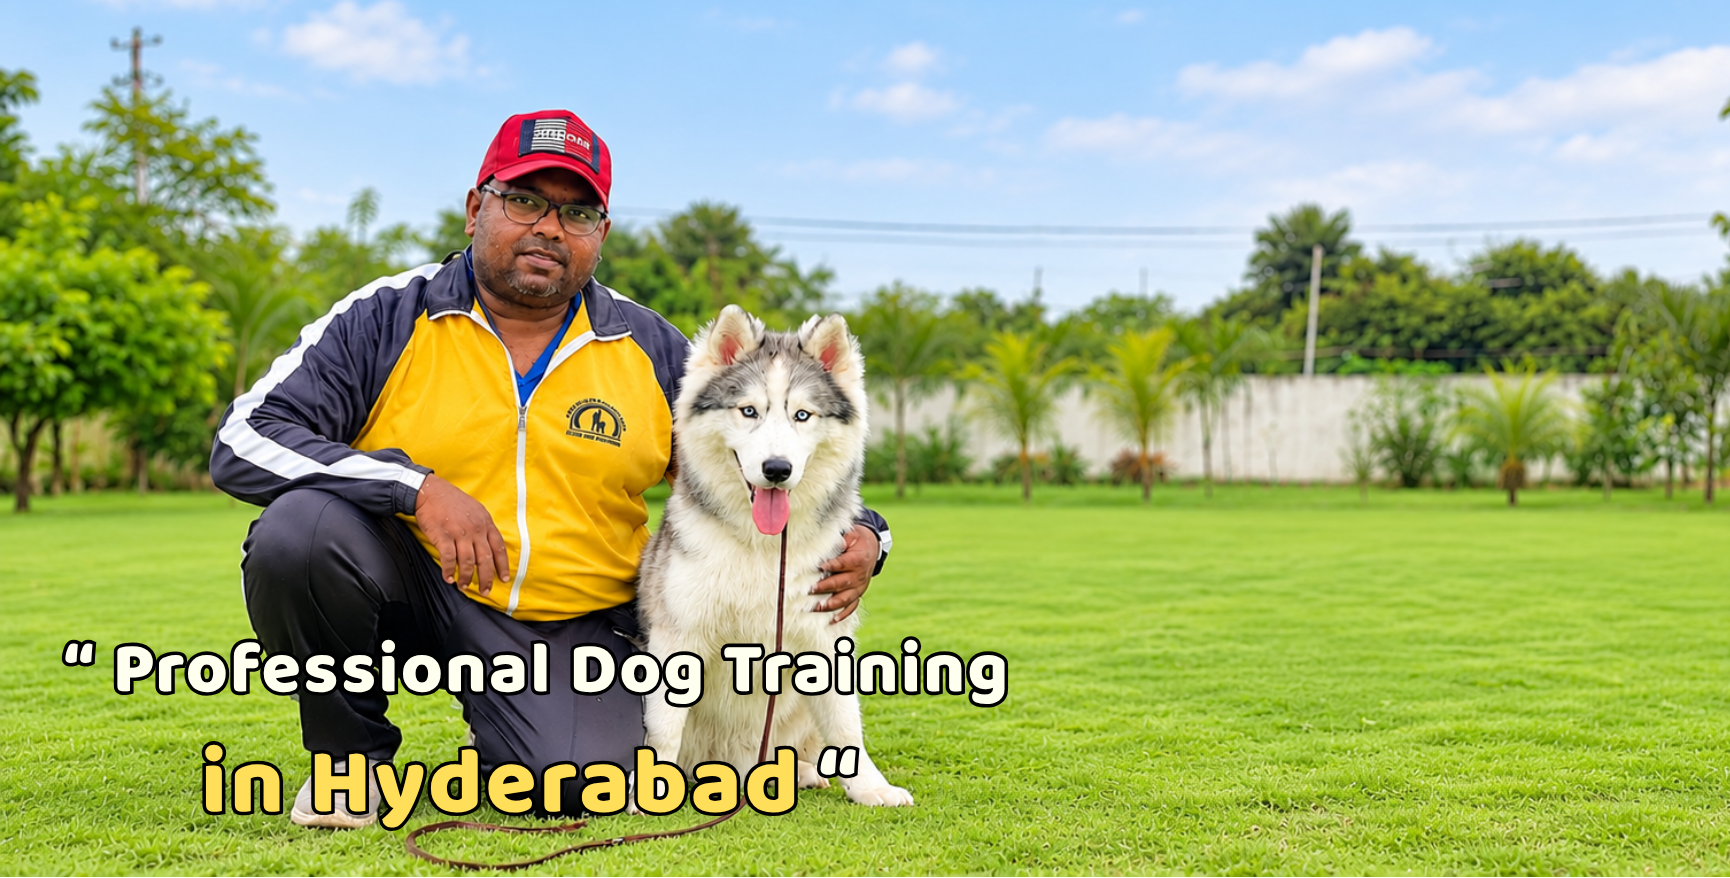
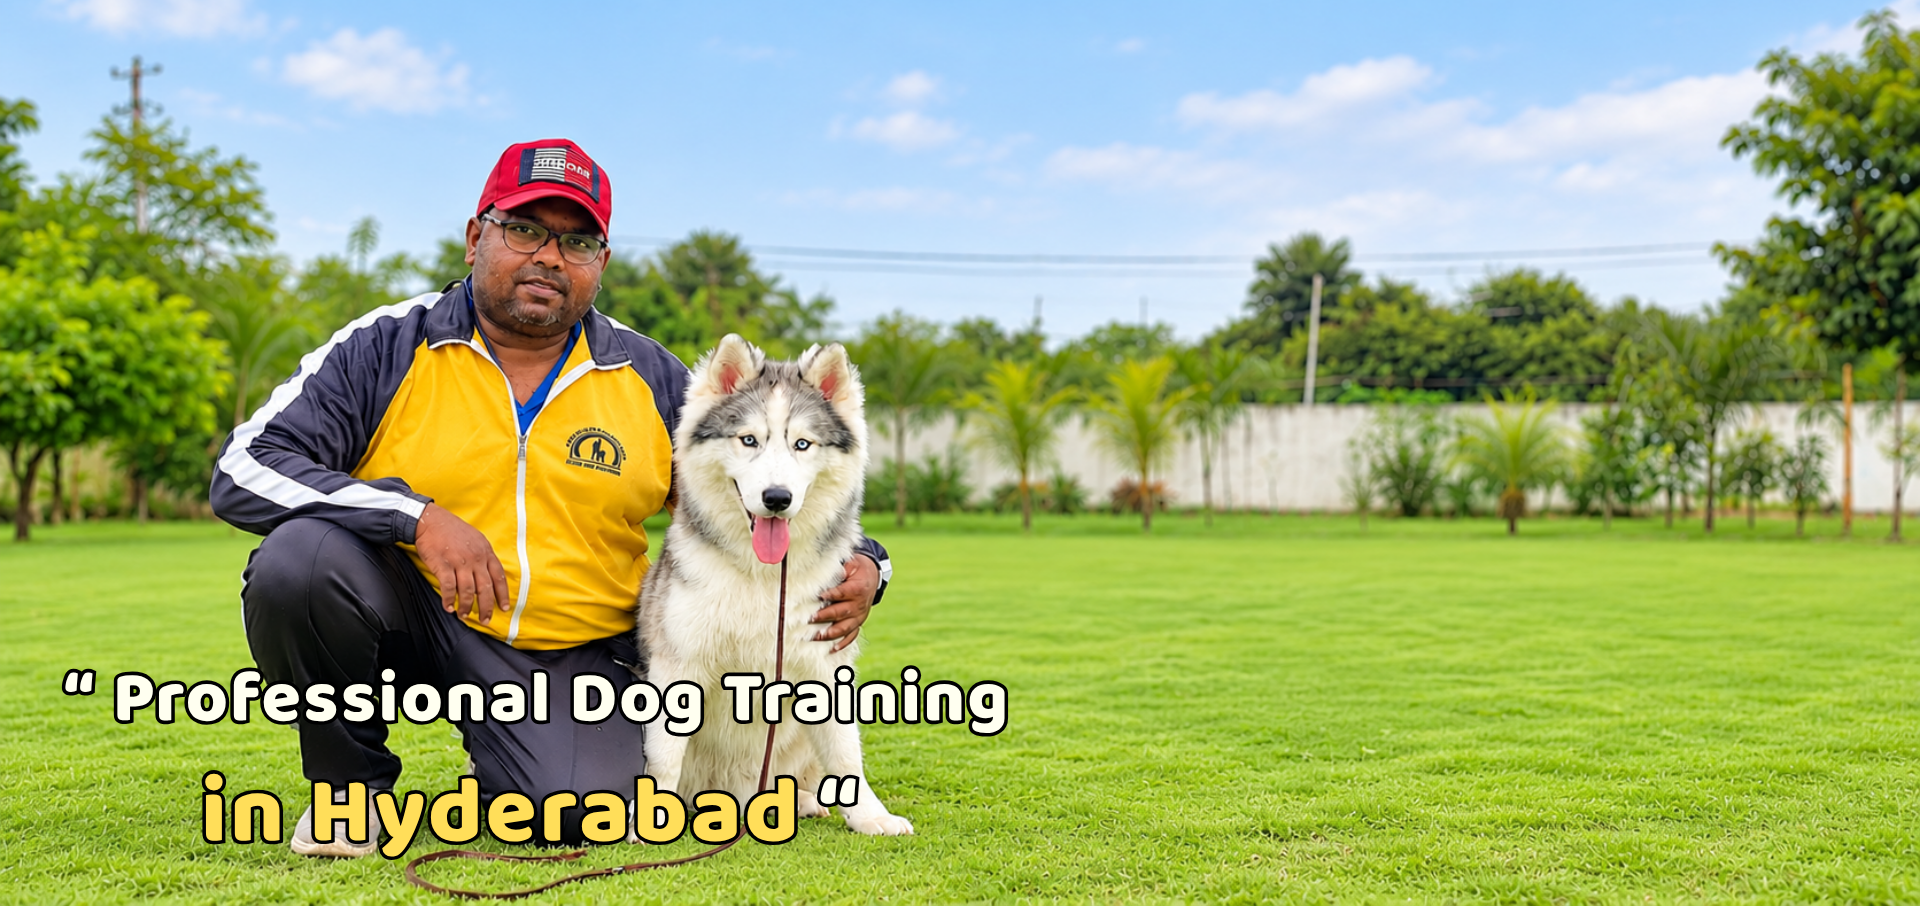
hero section new updates

diff --git a/src/components/Hero.tsx b/src/components/Hero.tsx
@@ -36,7 +36,6 @@ function PremiumProblemSelect({
   const buttonRef = useRef<HTMLButtonElement>(null)
   const panelRef = useRef<HTMLDivElement>(null)
 
-  // Portals need the DOM, so only render one after mount (SSR-safe).
   useEffect(() => setMounted(true), [])
 
   function updateCoords() {
@@ -45,17 +44,11 @@ function PremiumProblemSelect({
     setCoords({ top: rect.bottom + 8, left: rect.left, width: rect.width })
   }
 
-  // Computed BEFORE the panel opens (not in an effect after it renders),
-  // so React batches the coords + open state into one paint and the panel
-  // never flashes at {0,0} before jumping into place.
   function toggleOpen() {
     if (!open) updateCoords()
     setOpen((prev) => !prev)
   }
 
-  // Once open, keep it glued to the trigger on scroll (capture:true also
-  // catches the card's internal overflow-y-auto scroll, not just the
-  // window) or resize.
   useEffect(() => {
     if (!open) return
     window.addEventListener("scroll", updateCoords, true)
@@ -127,7 +120,6 @@ function PremiumProblemSelect({
 
   return (
     <div ref={containerRef} className="relative">
-      {/* Keeps FormData.get("problem") working exactly as before */}
       <input type="hidden" name={name} value={value} />
 
       <button
@@ -149,8 +141,6 @@ function PremiumProblemSelect({
         />
       </button>
 
-      {/* Rendered into document.body so the card's overflow-y-auto and
-          rounded corners can never clip the open panel. */}
       {mounted ? createPortal(panel, document.body) : null}
     </div>
   )
@@ -167,7 +157,6 @@ function HeroAppointmentForm() {
     const problem = values.get("problem")
 
     try {
-      // TODO: point this at your real endpoint / payload shape.
       const response = await fetch("/api/appointment", {
         method: "POST",
         headers: { "Content-Type": "application/json" },
@@ -227,7 +216,6 @@ function HeroAppointmentForm() {
         className="w-full rounded-xl border border-black/10 bg-cream/40 px-4 py-2.5 text-sm text-black placeholder:text-black/40 focus:border-yellow focus:outline-none focus:ring-2 focus:ring-yellow/30"
       />
 
-      <div className="grid grid-cols-2 gap-3">
         <input
           name="breed"
           placeholder="Dog Breed"
@@ -238,9 +226,7 @@ function HeroAppointmentForm() {
           placeholder="Dog Age"
           className="w-full rounded-xl border border-black/10 bg-cream/40 px-4 py-2.5 text-sm text-black placeholder:text-black/40 focus:border-yellow focus:outline-none focus:ring-2 focus:ring-yellow/30"
         />
-      </div>
 
-      {/* ── Premium custom dropdown (was a native <select>) ── */}
       <PremiumProblemSelect name="problem" placeholder="Main Problem" options={PROBLEMS} />
 
       <textarea
@@ -269,7 +255,7 @@ function HeroAppointmentForm() {
 
 function AppointmentFormCard() {
   return (
-    <div className="flex h-full flex-col rounded-3xl border-t-4 border-yellow bg-white p-6 shadow-2xl shadow-black/20 sm:p-7">
+    <div className="flex h-full justify-center flex-col rounded-3xl border-t-4 border-yellow bg-white p-6 shadow-2xl shadow-black/20 lg:p-7">
       <p className="inline-flex w-fit shrink-0 items-center gap-2 rounded-full bg-yellow px-3 py-1 text-[12px] font-semibold uppercase tracking-[0.06em] text-black">
         🐾 Book Appointment
       </p>
@@ -283,12 +269,7 @@ function AppointmentFormCard() {
 export function Hero() {
   return (
     <section id="home" role="region" aria-label="Obedience Masters — book a training session" className="relative w-full bg-amber-50">
-      {/*
-        ── Mobile (< 768px) ──
-        Container is locked to the photo's real 9:13 ratio, so the full
-        portrait always renders with ZERO cropping — no aspect guess that
-        can clip the trainer, dog, or the baked-in headline text.
-      */}
+      {/* ===================== MOBILE (< 768px) ===================== */}
       <div className="relative w-full md:hidden" style={{ aspectRatio: "9 / 13" }}>
         <Image
           src="/hero-916.png"
@@ -300,33 +281,14 @@ export function Hero() {
         />
       </div>
 
-      {/*
-        ═══ Book appointment form — mobile only ═══
-        A separate block below the image, pulled up with a negative margin
-        so it overlaps the clear grass at the bottom of the photo instead
-        of sitting in plain black space beneath it. Tune the -mt value to
-        how much clear ground your actual hero-916.png leaves below the text.
-      */}
       <div className="relative z-10 -mt-16 px-4 pb-10 sm:-mt-24 sm:px-6 md:hidden">
         <div className="mx-auto w-full max-w-md">
           <AppointmentFormCard />
         </div>
       </div>
 
-      {/*
-        ── Tablet/Desktop (>= 768px) ──
-        16 / 9 matches the photo's real ratio (was 16 / 7, which was far
-        wider/shorter than the source image — that forced object-cover to
-        crop a lot of vertical height at every desktop width, and with only
-        object-left set, that crop defaulted to vertical-center, chopping
-        the headline text and the dog's feet off the bottom).
-
-        object-[left_bottom]: on the rare width where cropping is still
-        needed (narrow end of the md/lg range), it now trims from the TOP
-        (empty sky/treeline) and keeps the bottom-left — trainer, dog, and
-        the baked-in headline — fully in frame.
-      */}
-      <div className="relative hidden w-full md:block" style={{ aspectRatio: "16 / 9" }}>
+      {/* ===================== DESKTOP (>= 768px) ===================== */}
+      <div className="relative hidden w-full md:block" style={{ height: "min(56.25vw, calc(100vh - 88px))" }}>
         <Image
           src="/hero-16-9.png"
           alt="Professional dog trainer with a well-trained husky in Hyderabad"
@@ -337,14 +299,23 @@ export function Hero() {
         />
 
         {/*
-          max-h-[90%] (was a forced h-[85%]): the card now only shrinks to
-          fit — and only scrolls internally via the overflow-y-auto on its
-          form wrapper — if it genuinely doesn't fit the available height.
-          At normal desktop viewport heights (800px+), with the container
-          now correctly sized to 16:9, the card renders at its natural
-          height with the Submit button fully visible, no scroll needed.
+          768–1023px (md, before lg/xl) is where vertical room is tightest —
+          56.25vw at these widths gives a fairly short hero, and the
+          6-field form doesn't naturally fit.
+
+          h-[90%] (a real height, not max-height) gives AppointmentFormCard's
+          `h-full` something definite to resolve against. That's what makes
+          the flex column bounded, so its `min-h-0 flex-1 overflow-y-auto`
+          region can correctly detect overflow and scroll internally —
+          the card itself never grows past 90% of the hero, and the
+          Submit button always stays visible at the bottom of the card
+          instead of being pushed out past the hero/section boundary.
+
+          xl:h-auto removes the cap once there's plenty of vertical room
+          (1280px+, matching how 1440px already looked correct) — card
+          renders at its natural height again, no scroll.
         */}
-        <div className="absolute right-8 top-1/2 z-10 max-h-[90%] w-[300px] max-w-md -translate-y-1/2 lg:right-16 lg:w-[370px] xl:w-[420px]">
+        <div className="absolute right-8 top-1/2 z-10 h-[90%] w-[300px] max-w-md -translate-y-1/2 lg:right-16 md:w-[250px] lg:h-[90%] lg:w-[300px] xl:h-auto xl:w-[420px]">
           <AppointmentFormCard />
         </div>
       </div>
